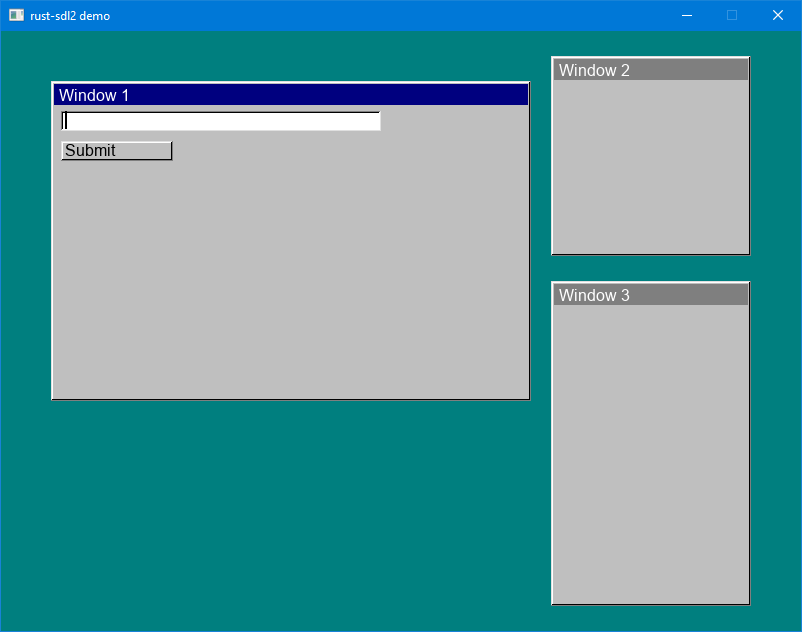
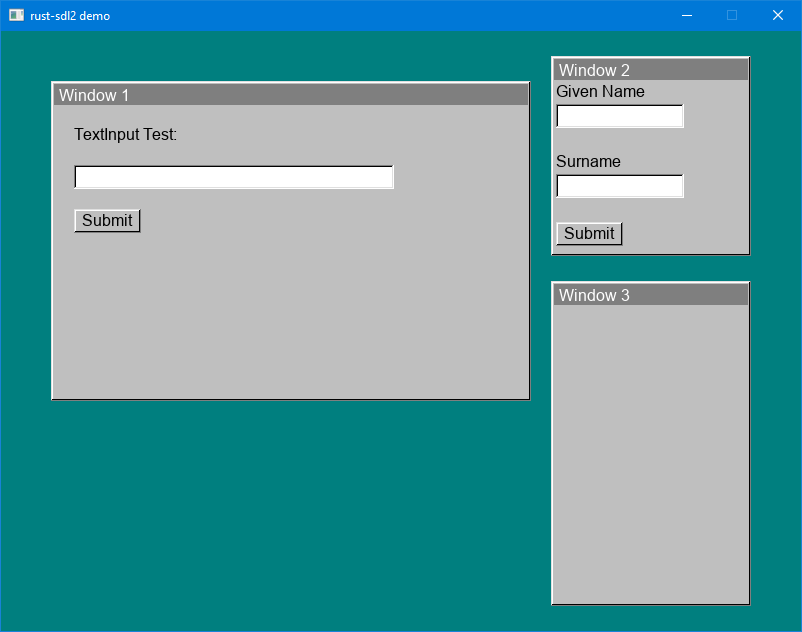
Forgot to add the label.rs element file. New screenshots

diff --git a/src/elements/label.rs b/src/elements/label.rs
@@ -1,0 +1,48 @@
+use super::Element;
+use super::DrawContext;
+use super::w98::*;
+use super::super::theme::*;
+use super::super::rectarea::*;
+use sdl2::pixels::Color;
+use sdl2::event::Event;
+
+pub struct Label
+{
+	area: RectArea,
+	text: String
+}
+
+impl Label
+{
+	pub fn new(text: String) -> Self
+	{
+		return Label { area: ORIGIN_ZERO, text };
+	}
+}
+
+impl Element for Label
+{
+	fn position(&mut self, area: &RectArea)
+	{
+		self.area = area.clone();
+	}
+
+	fn target(&mut self, on: bool)
+	{
+		
+	}
+
+	fn handleInput(&mut self, event: &Event)
+	{
+		
+	}
+
+	fn draw(&mut self, draw_context: &mut DrawContext, theme: &w98Theme)
+	{
+		if !self.text.is_empty()
+		{
+			let hDiff2: i32 = self.area.h as i32 - theme.font.points as i32;
+			writeLeftAligned(&mut draw_context.canvas, &draw_context.texture_creator, &draw_context.font, &Color::BLACK, XY {x: self.area.x /*+ hDiff2*/, y: self.area.y - (theme.window.border.top.inner.width + theme.window.border.top.outer.width) as i32 + (hDiff2 / 2)}, self.area.w - hDiff2 as u32*2, &self.text);
+		}
+	}
+}
